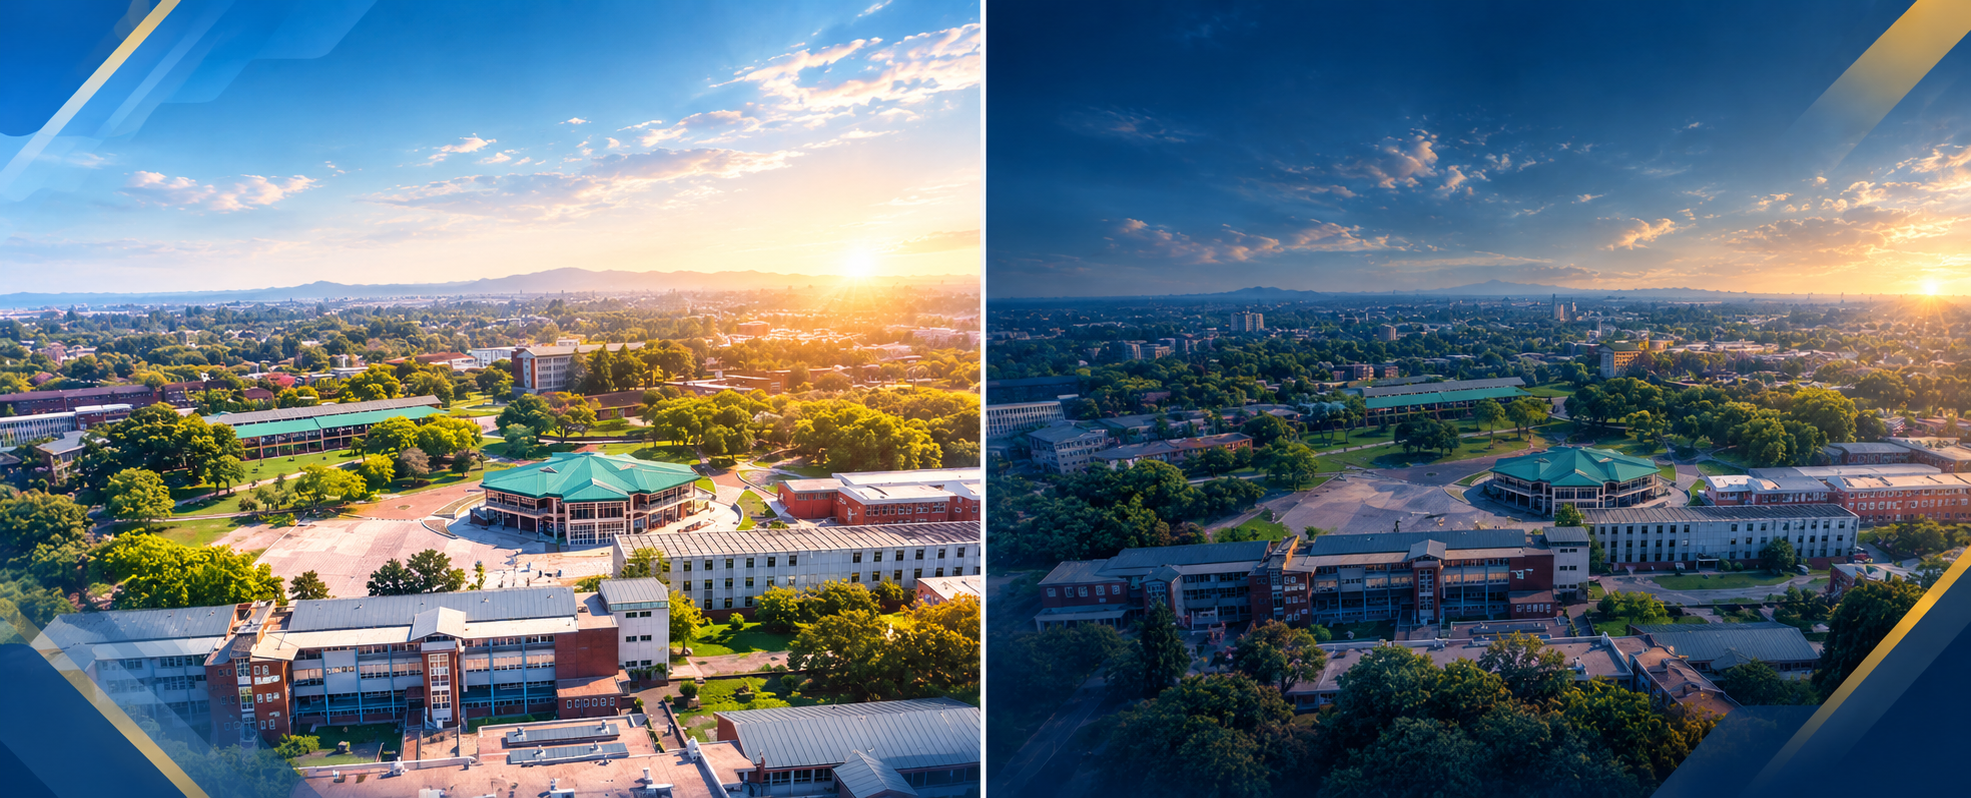
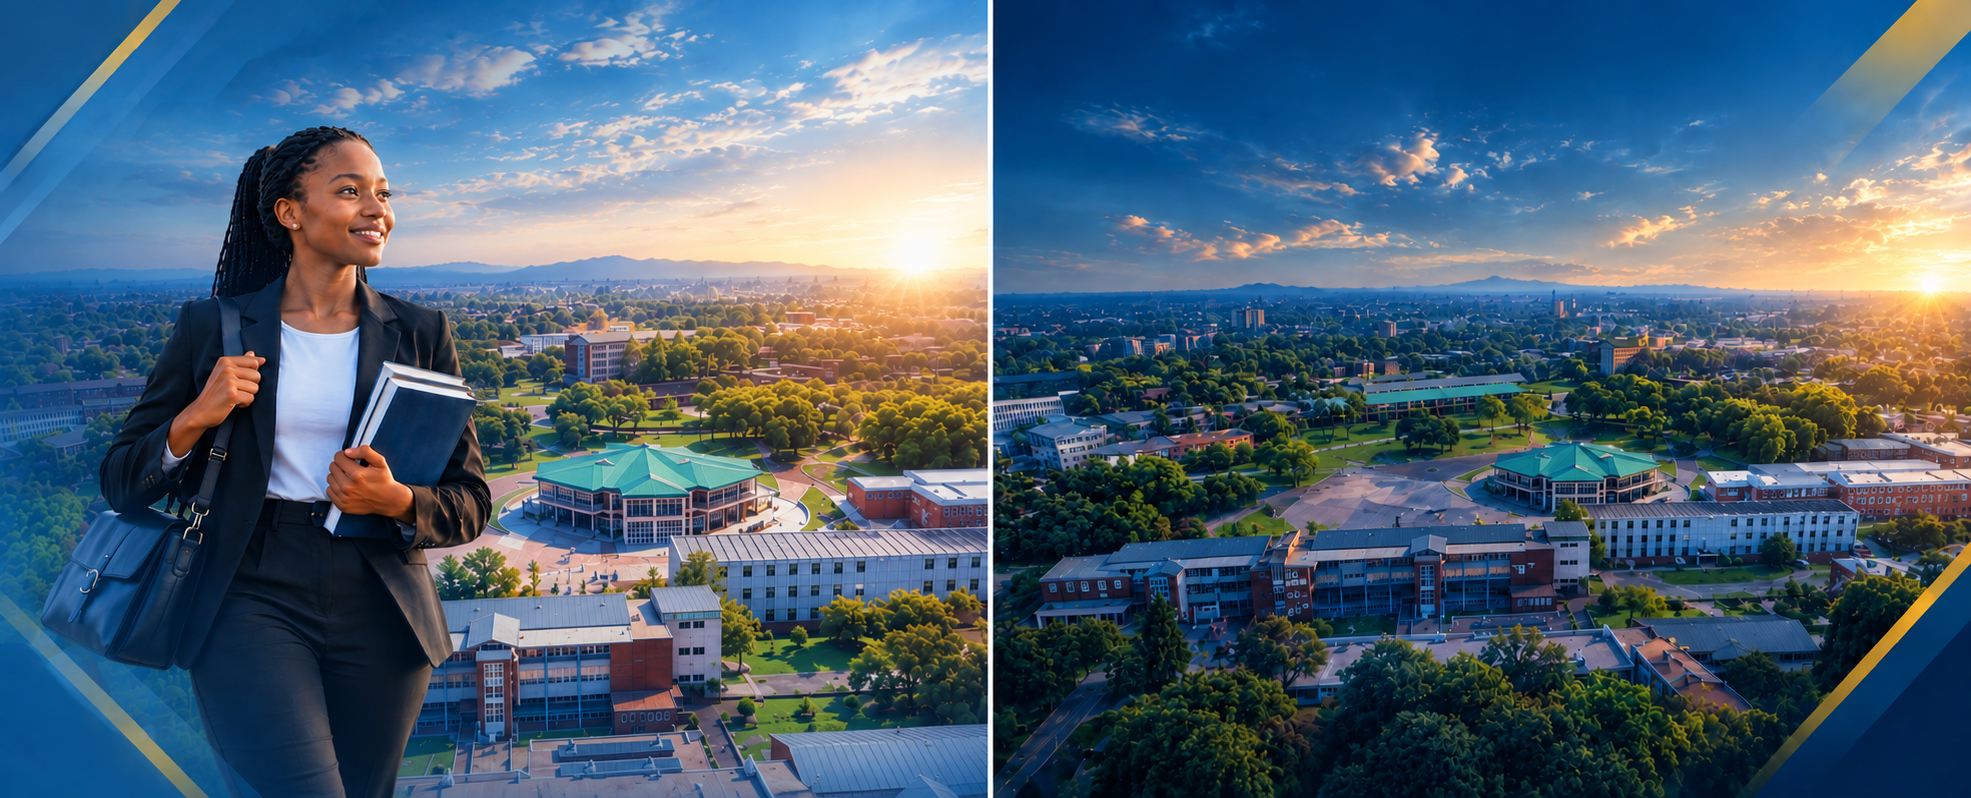
Optimize images: Replace with student1 and remove unused PNGs
- Convert register-student1.png to WebP format
- Update hero and register pages to use student1.webp
- Delete all unused PNG files (7 files removed)
- Image size reduced by 85% (6.3MB → 940KB)
- All images now use optimized WebP format

diff --git a/src/app/(auth)/register/student/page.tsx b/src/app/(auth)/register/student/page.tsx
@@ -106,7 +106,7 @@ export default function RegisterStudentPage() {
   return (
     <div
       className="min-h-screen flex items-center justify-center p-4 md:p-8 relative bg-cover bg-center"
-      style={{ backgroundImage: "url(/register-student.png)" }}
+      style={{ backgroundImage: "url(/register-student1.webp)" }}
     >
       {/* Lighter overlay - easier to see background */}
       <div 

diff --git a/src/components/auth/HomePageContent.tsx b/src/components/auth/HomePageContent.tsx
@@ -101,7 +101,7 @@ export default function HomePage() {
         <div
           className="absolute inset-0 z-0 bg-cover bg-center bg-no-repeat"
           style={{
-            backgroundImage: "url('/register-student.webp')",
+            backgroundImage: "url('/register-student1.webp')",
           }}
         />
         
